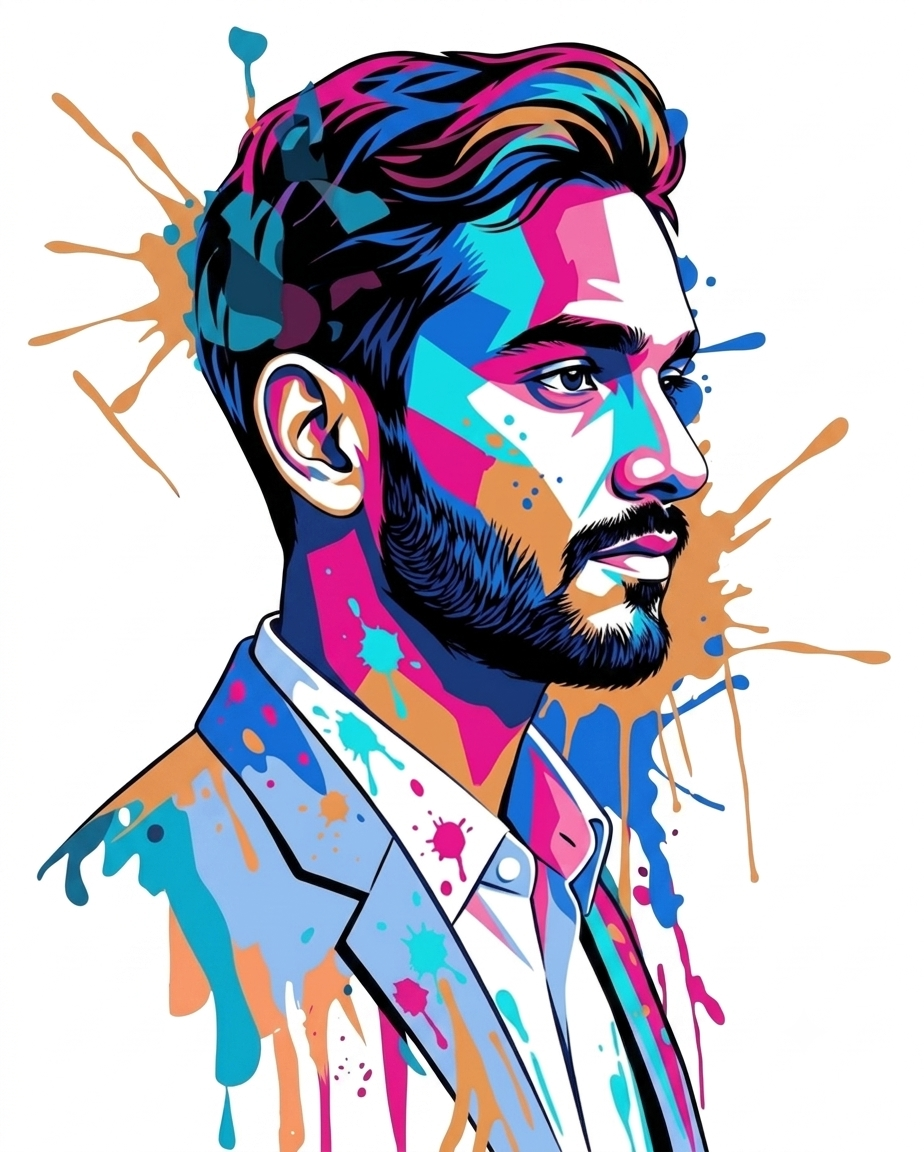
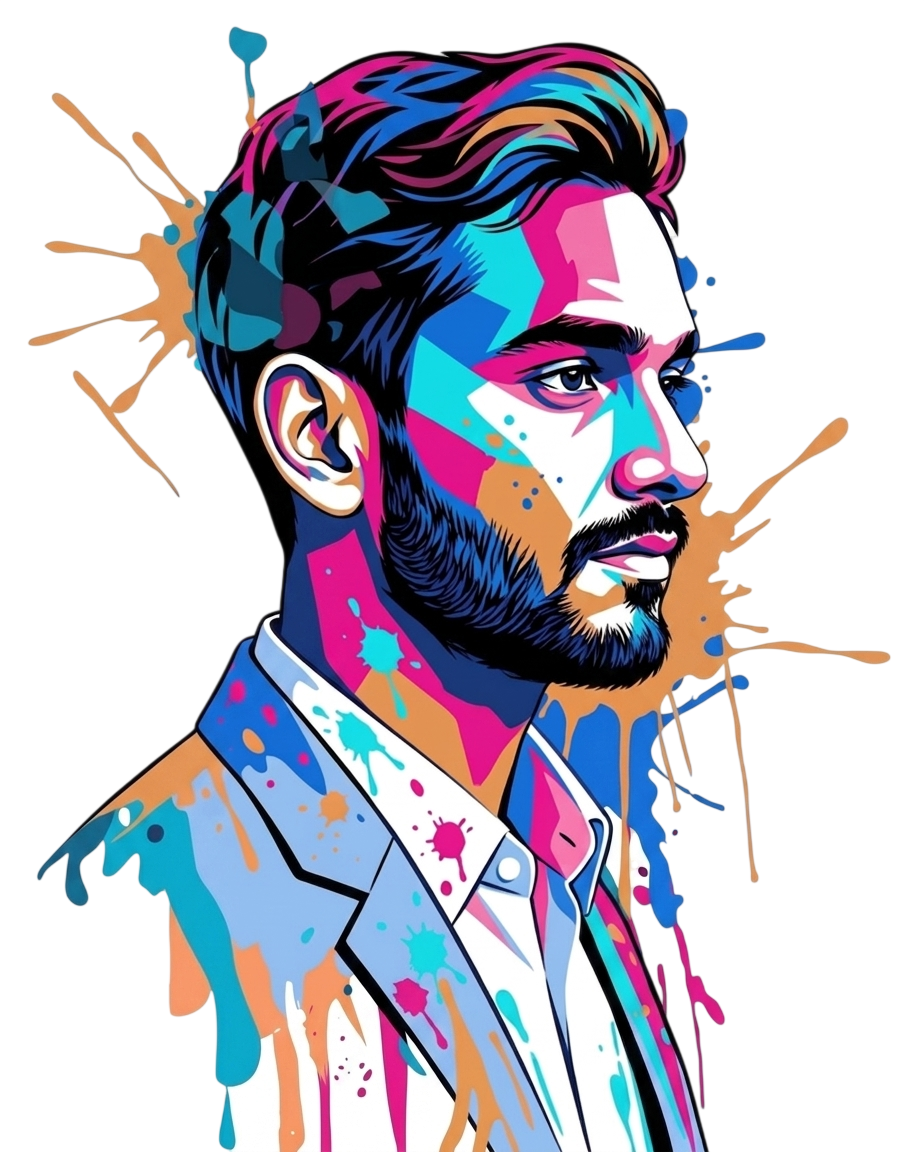
Responsive

Changed region(s): [[0.7879, 0.4375, 0.8182, 0.4688], [0.7273, 0.9062, 0.7576, 0.9375], [0.697, 0.6562, 0.7273, 0.6875]]

diff --git a/src/app/contact/page.jsx b/src/app/contact/page.jsx
@@ -1,13 +1,18 @@
 "use client";
+
 import { toast, ToastContainer } from "react-toastify";
 import { motion } from "framer-motion";
 import "react-toastify/dist/ReactToastify.css";
+
 export default function ContactPage() {
   const text = "Say Hello";
+
   const onSubmitHandler = async (event) => {
     event.preventDefault();
+
     const formData = new FormData(event.target);
     const loadingToast = toast.loading("Sending your message 🔃");
+
     try {
       const response = await fetch("/api/send-email", {
         method: "POST",
@@ -19,37 +24,66 @@ export default function ContactPage() {
           description: formData.get("description"),
         }),
       });
+
       if (!response.ok) {
         toast.dismiss(loadingToast);
         toast.error("Internal Server Error");
         return;
       }
+
       const data = await response.json();
-      if (!data.success) {
-        toast.dismiss(loadingToast);
-        toast.error(data.message);
-      }
+
       toast.dismiss(loadingToast);
+
+      if (!data.success) {
+        toast.error(data.message);
+        return;
+      }
+
       toast.success(data.message);
       event.target.reset();
     } catch (error) {
-      console.log("Error : ", error);
+      console.log("Error:", error);
       toast.dismiss(loadingToast);
-      toast.error("Internel Server Error");
+      toast.error("Internal Server Error");
     }
   };
+
   return (
     <>
       <ToastContainer />
+
       <motion.div
-        className="h-full"
-        initial={{ y: "-200vh" }}
+        className="min-h-screen w-full"
+        initial={{ y: "-100vh" }}
         animate={{ y: "0%" }}
         transition={{ duration: 1 }}
       >
-        <div className="h-full flex flex-col lg:flex-row p-4 sm:p-8 md:p-12 lg:p-20 xl:p-48">
-          <div className="h-1/2 lg:h-full lg:w-1/2 flex items-center justify-center text-6xl">
-            <div>
+        <div
+          className="
+            min-h-screen w-full flex flex-col lg:flex-row gap-8 lg:gap-12 px-5 py-8
+            sm:px-8 sm:py-12
+            md:px-12 md:py-16
+            lg:px-16 lg:py-20
+            xl:px-24 xl:py-24
+            2xl:px-40
+          "
+        >
+          {/* Left Section */}
+          <div
+            className="
+              w-full lg:w-1/2
+              min-h-[220px] lg:min-h-0
+              flex items-center justify-center
+              text-4xl
+              sm:text-5xl
+              md:text-6xl
+              lg:text-7xl
+              xl:text-8xl
+              font-semibold
+            "
+          >
+            <div className="text-center">
               {text.split("").map((item, index) => (
                 <motion.span
                   key={index}
@@ -64,34 +98,83 @@ export default function ContactPage() {
                   {item}
                 </motion.span>
               ))}
-              😊
+
+              <span className="ml-2">😊</span>
             </div>
           </div>
+
+          {/* Form Section */}
           <form
-            onSubmit={(e) => onSubmitHandler(e)}
-            className="h-1/2 lg:h-full lg:w-1/2 bg-red-50 rounded-xl text-xl flex flex-col gap-8 justify-center p-24"
+            onSubmit={onSubmitHandler}
+            className="
+              w-full lg:w-1/2
+              bg-red-50
+              rounded-xl
+              text-base sm:text-lg md:text-xl
+              flex flex-col
+              gap-5 sm:gap-6 md:gap-8
+              justify-center
+              p-6
+              sm:p-8
+              md:p-10
+              lg:p-12
+              xl:p-16
+            "
           >
-            <span>Dear, Sibghatullah Ansari</span>
+            <span className="font-medium">Dear, Sibghatullah Ansari</span>
 
             <textarea
               rows={6}
-              className="bg-transparent border-b-2 border-b-black outline-none resize-none min-h-[200px] p-2"
+              className="
+                w-full
+                bg-transparent
+                border-b-2 border-b-black
+                outline-none
+                resize-none
+                min-h-[150px]
+                sm:min-h-[170px]
+                md:min-h-[200px]
+                p-2
+                placeholder:text-gray-500
+              "
               placeholder="Write your message here..."
               name="description"
               required
             />
-            <span>My Email Address is :</span>
+
+            <span className="font-medium">My Email Address is:</span>
+
             <input
               type="email"
-              className="bg-transparent border-b-2 border-b-black outline-none p-2"
+              className="
+                w-full
+                bg-transparent
+                border-b-2 border-b-black
+                outline-none
+                p-2
+                placeholder:text-gray-500
+              "
               placeholder="Enter your Email here..."
               name="gmail"
               required
             />
-            <span>Regard</span>
+
+            <span className="font-medium">Regard</span>
+
             <button
               type="submit"
-              className="cursor-pointer bg-purple-200 rounded font-semibold text-gray-600 p-4"
+              className="
+                w-full
+                cursor-pointer
+                bg-purple-200
+                hover:bg-purple-300
+                active:bg-purple-400
+                rounded-lg
+                font-semibold
+                text-gray-700
+                p-3 sm:p-4
+                transition-colors
+              "
             >
               Send
             </button>
